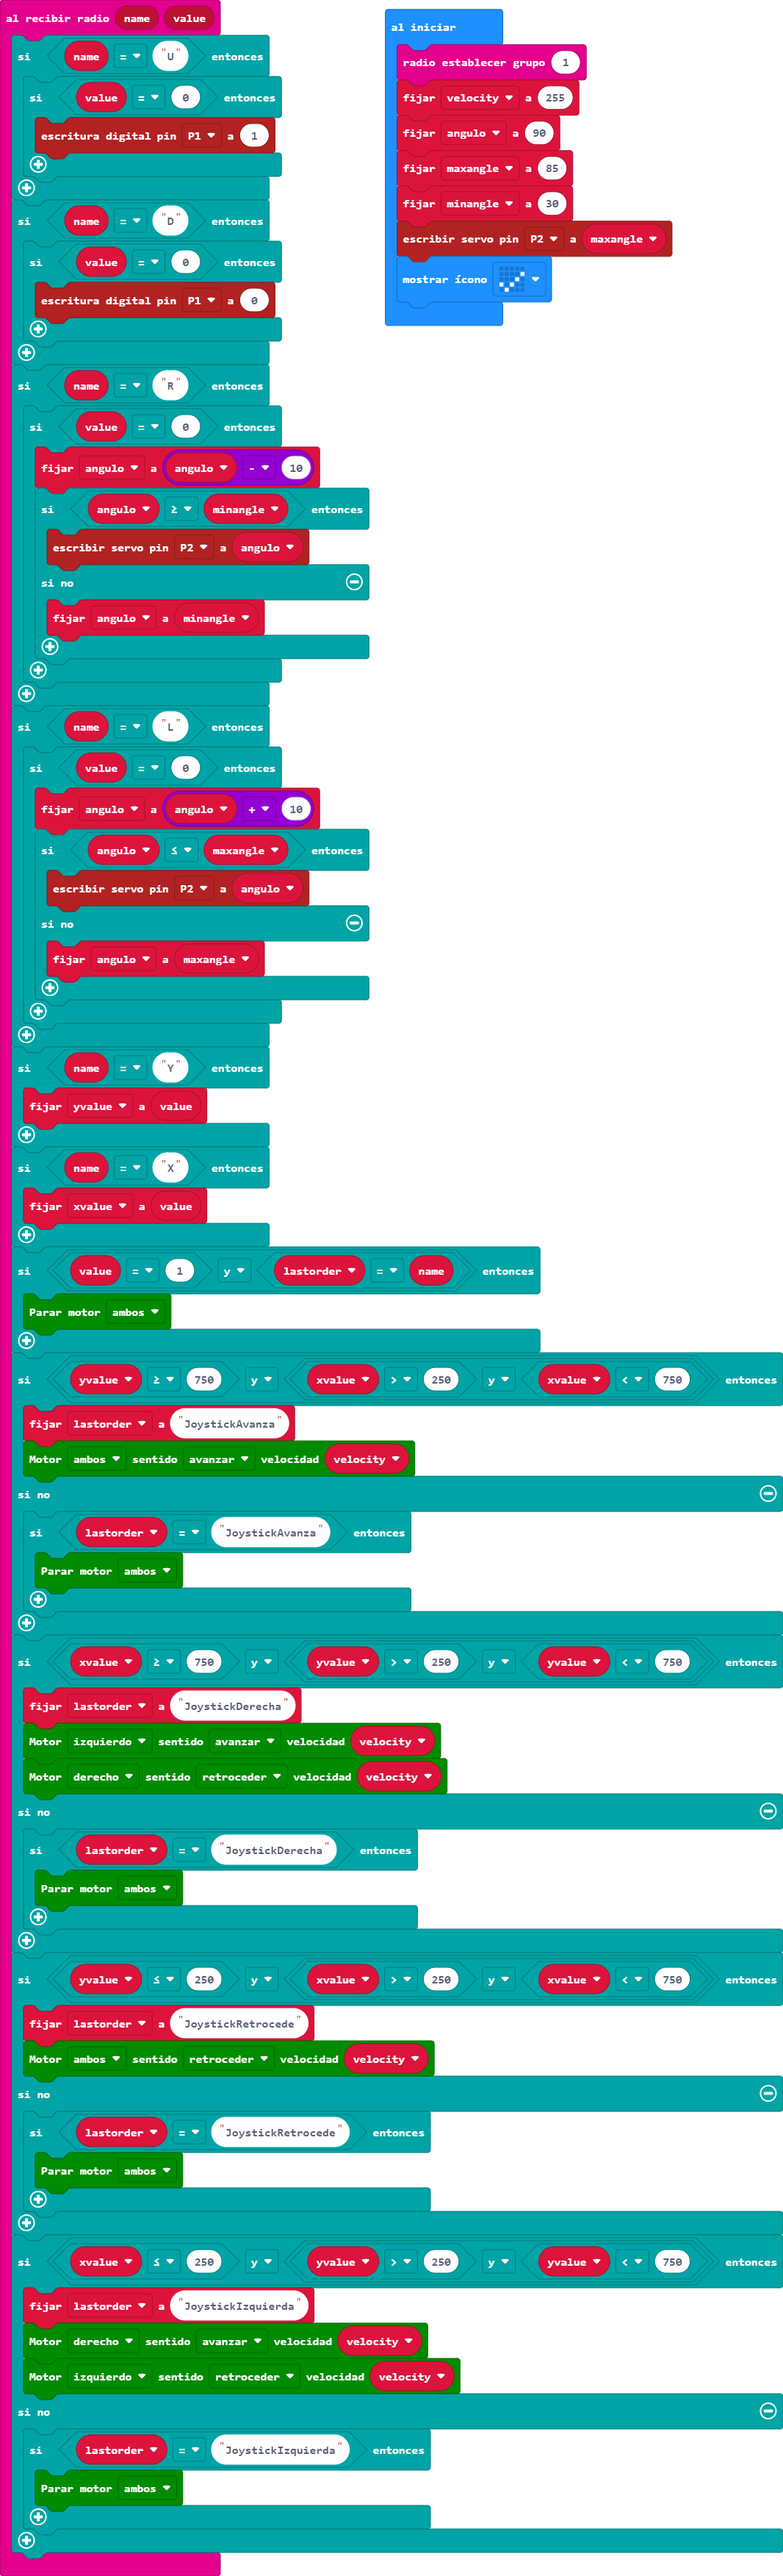
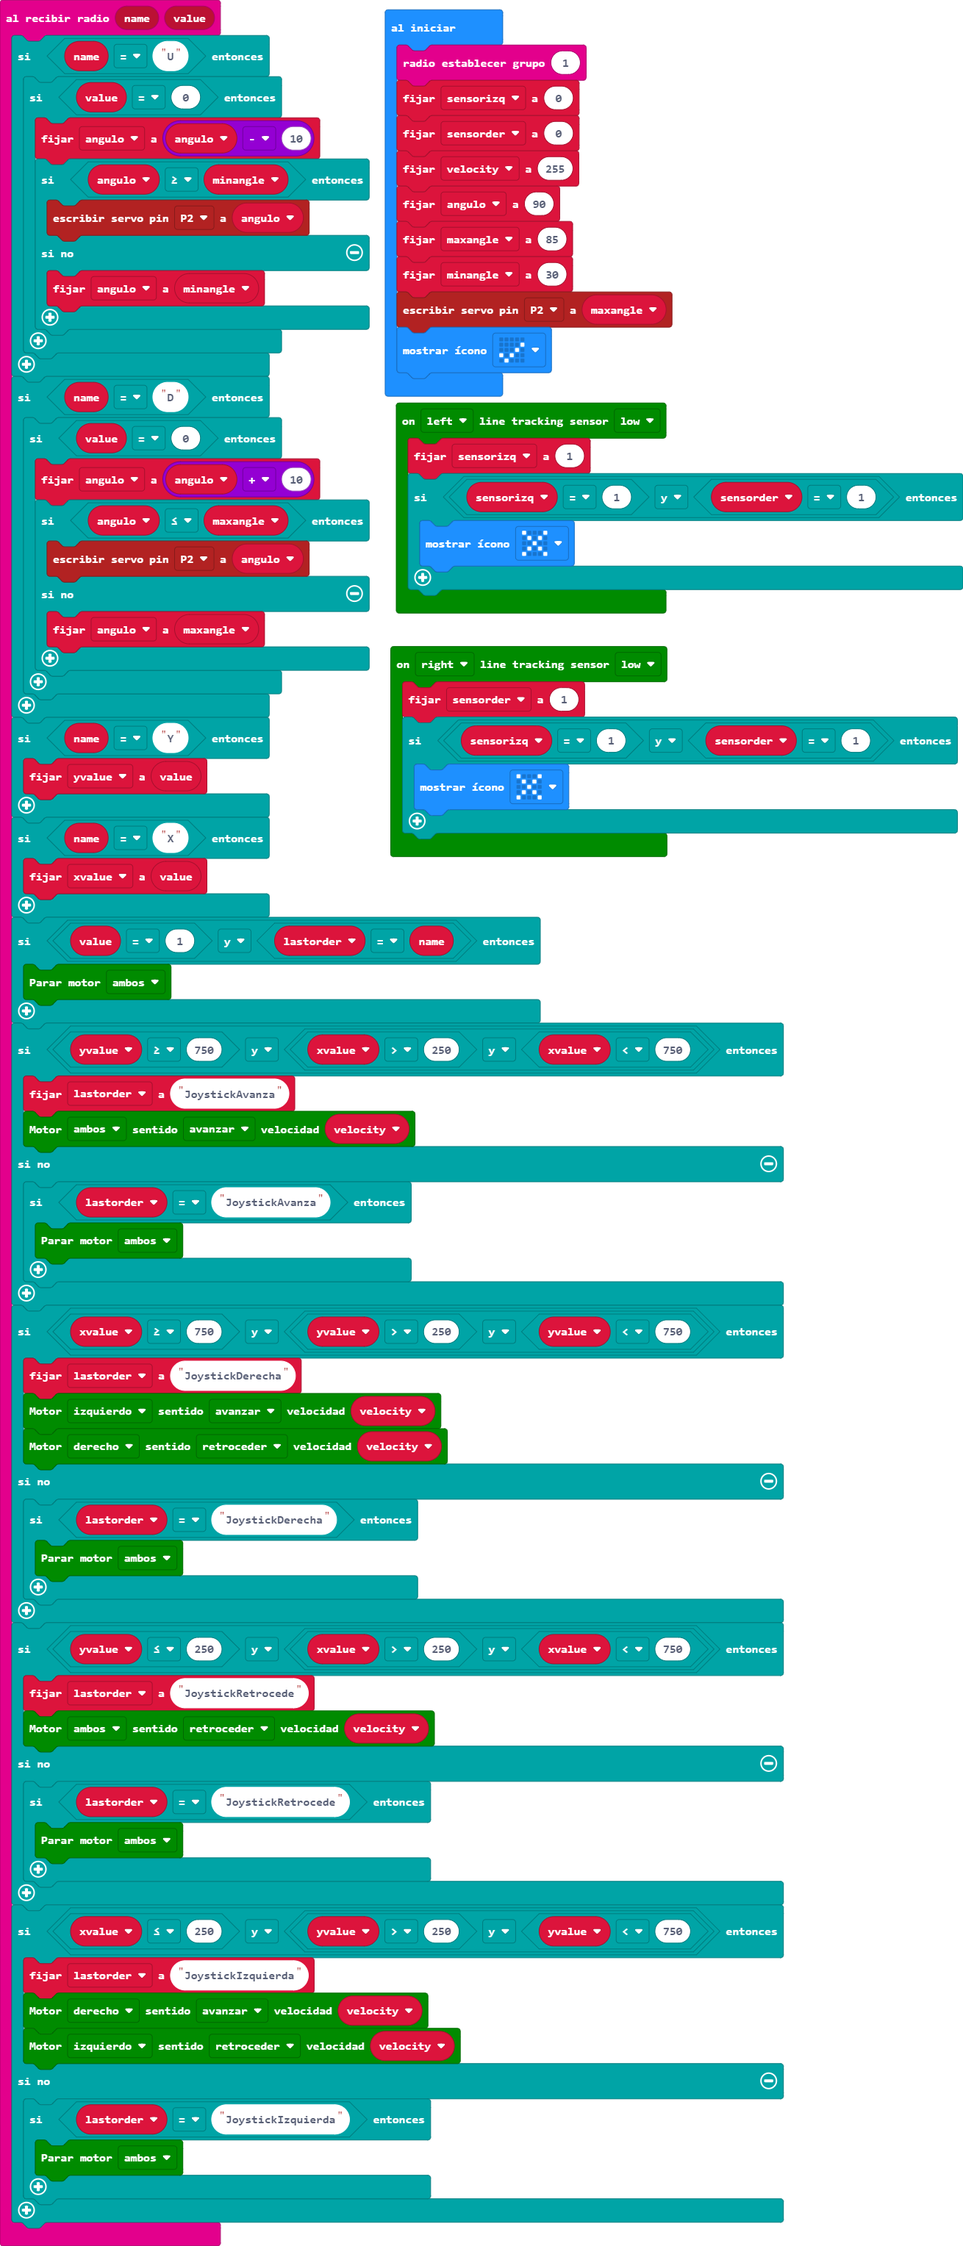
Actualizar main.blocks, main.ts

diff --git a/main.ts b/main.ts
@@ -1,15 +1,17 @@
+maqueen.ltEvent(maqueen.Patrol1.PatrolRight, maqueen.Voltage.Low, function () {
+    sensorder = 1
+    if (sensorizq == 1 && sensorder == 1) {
+        basic.showIcon(IconNames.No)
+    }
+})
+maqueen.ltEvent(maqueen.Patrol1.PatrolLeft, maqueen.Voltage.Low, function () {
+    sensorizq = 1
+    if (sensorizq == 1 && sensorder == 1) {
+        basic.showIcon(IconNames.No)
+    }
+})
 radio.onReceivedValue(function (name, value) {
     if (name == "U") {
-        if (value == 0) {
-            pins.digitalWritePin(DigitalPin.P1, 1)
-        }
-    }
-    if (name == "D") {
-        if (value == 0) {
-            pins.digitalWritePin(DigitalPin.P1, 0)
-        }
-    }
-    if (name == "R") {
         if (value == 0) {
             angulo = angulo - 10
             if (angulo >= minangle) {
@@ -19,7 +21,7 @@ radio.onReceivedValue(function (name, value) {
             }
         }
     }
-    if (name == "L") {
+    if (name == "D") {
         if (value == 0) {
             angulo = angulo + 10
             if (angulo <= maxangle) {
@@ -80,7 +82,11 @@ let minangle = 0
 let maxangle = 0
 let angulo = 0
 let velocity = 0
+let sensorder = 0
+let sensorizq = 0
 radio.setGroup(1)
+sensorizq = 0
+sensorder = 0
 velocity = 255
 angulo = 90
 maxangle = 85
